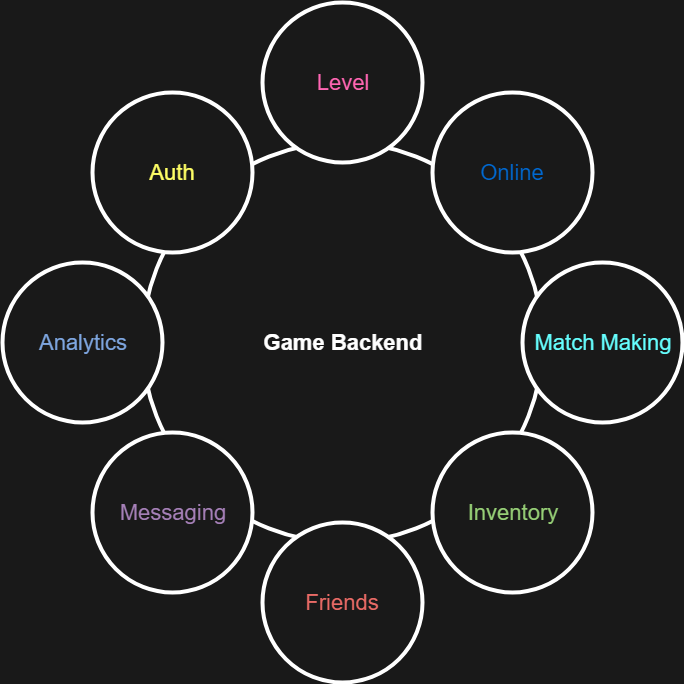
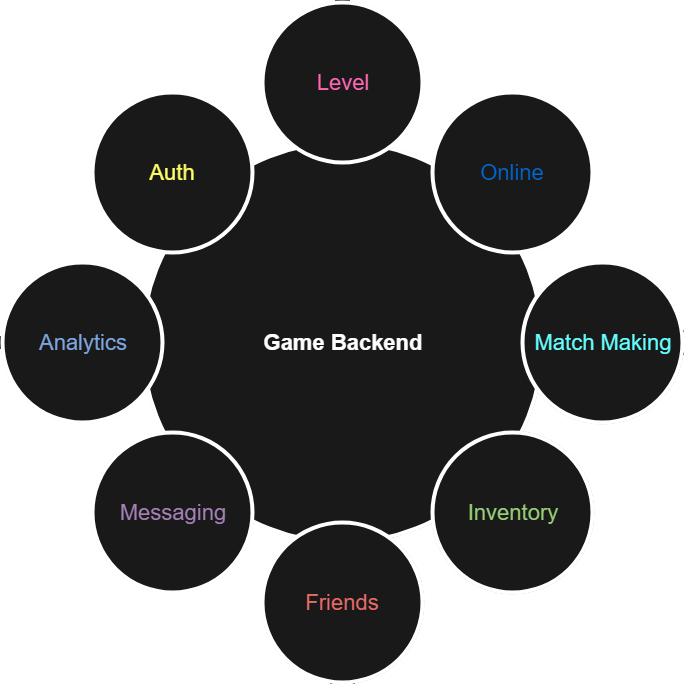
Edit presentation

diff --git a/cursach.html b/cursach.html
@@ -72,14 +72,23 @@
             </ol>
         </section>
         <section>
-            <h4>Серврна частина</h4>
-            <img style="border: none; max-height: 500px; box-shadow: none;"
+            <h3>Технології</h3>
+            <ol>
+                <li>React.js</li>
+                <li>Node.js Microservices + RabbitMQ</li>
+                <li>NoSQL + MongoDB</li>
+                <li>Docker + AWS</li>
+            </ol>
+        </section>
+        <section>
+            <h4>Завдання сервера</h4>
+            <img style="border: none; max-height: 500px; box-shadow: none; background: none"
                  src="media/Diagram.png"/>
         </section>
         <section>
             <h4>Фінальна архітектура</h4>
             <img style="background: transparent; border: none; max-height: 500px; box-shadow: none;"
-                 src="media/Screenshot_1%20copy.png"/>
+                 src="media/Scheme.png"/>
         </section>
         <section>
             <h3>Devtools. Розгортання серверу</h3>
